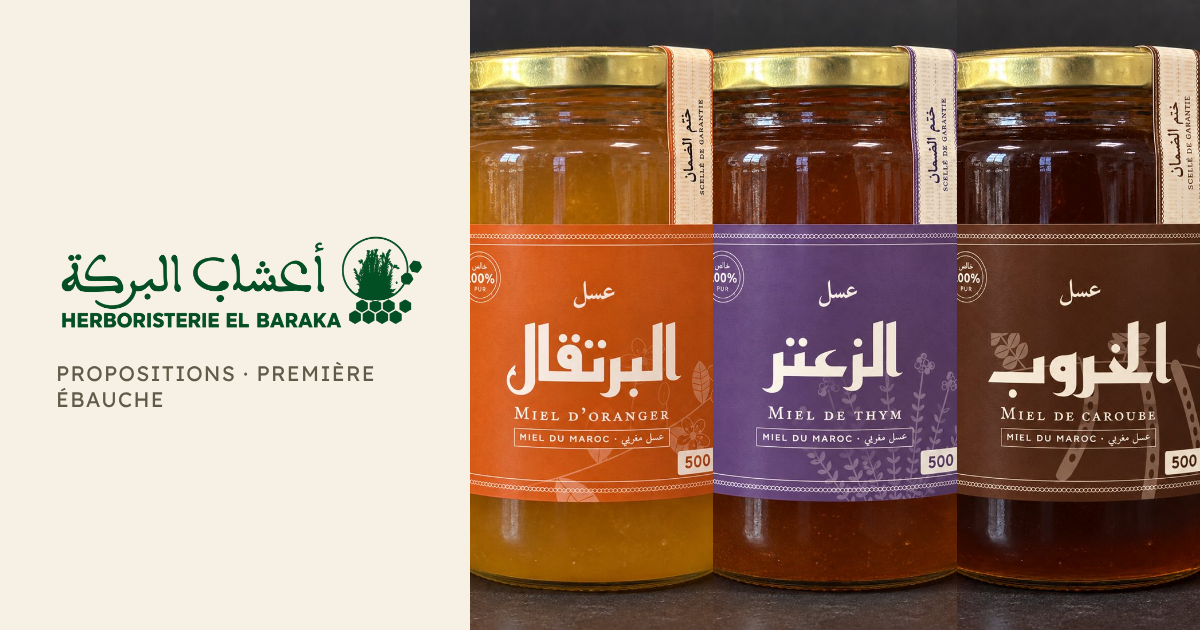
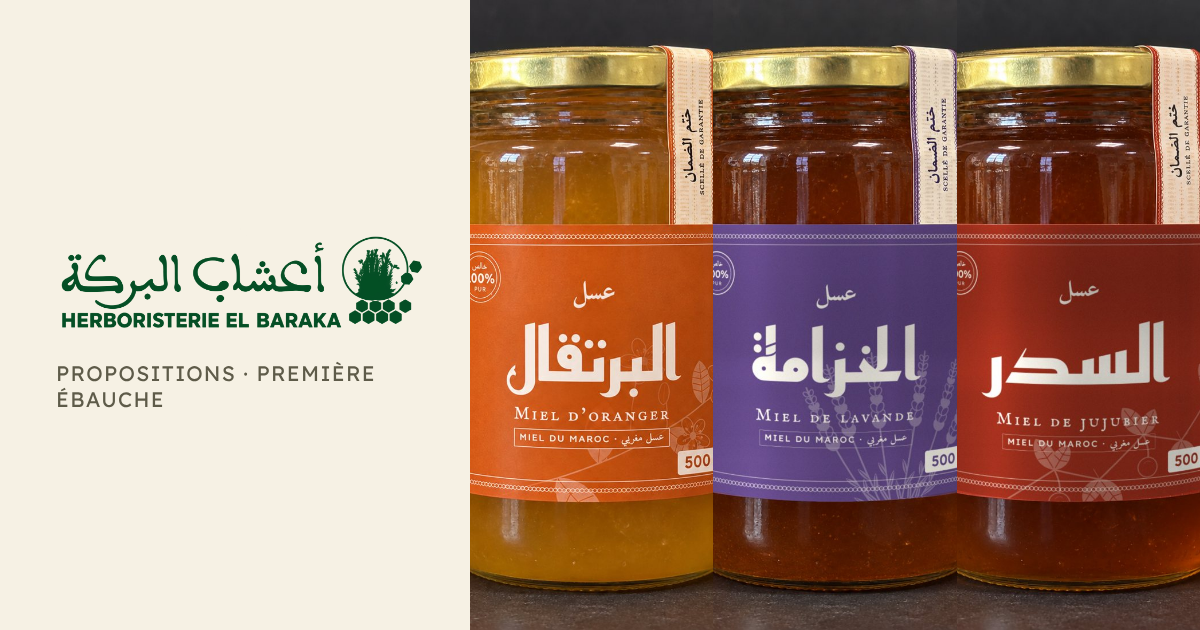
Update site (40c1f1b)

Changed region(s): [[0.5858, 0.0603, 1.0, 0.9952], [0.8017, 0.9651, 0.8633, 1.0], [0.6783, 0.4524, 0.7092, 0.4825]]

diff --git a/producer.js b/producer.js
@@ -28,15 +28,18 @@
   /* One code colour per honey. Hues are spread so neighbours never look alike,
      and the big word carries the meaning for anyone who can't tell colours apart. */
   const BLANK_NUT = { kj: '[ ]', kcal: '[ ]', fat: '[ ]', carb: '[ ]', prot: '[ ]', salt: '[ ]' };
+  // The seven honeys on the shop's shelf today, named as on its own labels.
   const HONEYS = [
     { id: 'ora', ar: 'عسل البرتقال', big: 'البرتقال', fr: 'Miel d’oranger', acc: '#bf5f17', flora: 'orange', fit: 0.92, pfund: 16,
       nut: { kj: '1377', kcal: '324', fat: '0,0', carb: '80,06', prot: '0,4', salt: '0,0' } },
-    { id: 'thy', ar: 'عسل الزعتر', big: 'الزعتر', fr: 'Miel de thym', acc: '#634987', flora: 'thyme', fit: 1, pfund: 64 },
-    { id: 'zak', ar: 'عسل الزقوم', big: 'الزقوم', fr: 'Miel d’euphorbe', acc: '#9c2f1d', flora: 'euphorbia', fit: 1, pfund: 72 },
-    { id: 'car', ar: 'عسل الخروب', big: 'الخروب', fr: 'Miel de caroube', acc: '#4a2c1c', flora: 'carob', fit: 1, pfund: 118 },
-    { id: 'euc', ar: 'عسل الكاليتوس', big: 'الكاليتوس', fr: 'Miel d’eucalyptus', acc: '#2c6965', flora: 'eucalyptus', fit: 0.78, pfund: 82 },
-    { id: 'mul', ar: 'عسل الأزهار', big: 'الأزهار', fr: 'Miel toutes fleurs', acc: '#557629', flora: 'meadow', fit: 1, pfund: 48 }
+    { id: 'rom', ar: 'عسل أزير', big: 'أزير', fr: 'Miel de romarin', acc: '#2c6965', flora: 'rosemary', fit: 1, pfund: 25 },
+    { id: 'lav', ar: 'عسل الخزامة', big: 'الخزامة', fr: 'Miel de lavande', acc: '#634987', flora: 'lavender', fit: 0.92, pfund: 60 },
+    { id: 'crb', ar: 'عسل الخروب', big: 'الخروب', fr: 'Miel de caroubier', acc: '#4a2c1c', flora: 'carob', fit: 1, pfund: 70 },
+    { id: 'juj', ar: 'عسل السدر', big: 'السدر', fr: 'Miel de jujubier', acc: '#9c2f1d', flora: 'jujube', fit: 1, pfund: 90 },
+    { id: 'asp', ar: 'عسل الزكوم', big: 'الزكوم', fr: 'Miel d’asperge', acc: '#33507e', flora: 'asparagus', fit: 1, pfund: 95 },
+    { id: 'ori', ar: 'عسل الزعتر', big: 'الزعتر', fr: 'Miel d’origan', acc: '#557629', flora: 'thyme', fit: 1, pfund: 105 }
   ];
+
 
   const BLANK = {
     brandAr: '[اسم التعاونية]', brandFr: '[NOM DE LA COOPÉRATIVE]', phone: '[téléphone]',
@@ -102,20 +105,6 @@
       }
       return o;
     },
-    euphorbia(R) {
-      // Euphorbia resinifera: square, spined columns with tiny yellow cyathia on top
-      let o = '';
-      [[24, 44, 9], [38, 60, 10], [54, 72, 11], [70, 64, 10], [86, 52, 9], [100, 38, 8], [112, 28, 7]].forEach(([x, h, w], i) => {
-        const y0 = 80, y1 = y0 - h, l = x - w / 2, r = x + w / 2;
-        o += `<path class="f-pt" d="M${l} ${y0}L${l} ${y1 + w / 2}Q${l} ${y1} ${x} ${y1}Q${r} ${y1} ${r} ${y1 + w / 2}L${r} ${y0}"/>`;
-        o += `<path class="f-pl" d="M${x} ${y1 + 2.5}L${x} ${y0}"/>`;
-        let sp = '';
-        for (let y = y1 + 4.5; y < y0 - 2; y += 4.4) sp += `M${l} ${P(y)}l-1.7 -1.3M${l} ${P(y)}l-1.7 1.3M${r} ${P(y)}l1.7 -1.3M${r} ${P(y)}l1.7 1.3`;
-        o += `<path class="f-sm" d="${sp}"/>`;
-        if (i % 2 === 0) for (let k = -1; k <= 1; k++) o += `<circle class="f-an" cx="${P(x + k * 2.7)}" cy="${P(y1 - 1.7 - (k ? 0 : 1.3))}" r="1.2"/>`;
-      });
-      return o;
-    },
     carob(R) {
       const br = [[0, 16], [60, 2], [122, 20]], on = (t) => quad(br[0], br[1], br[2], t);
       let o = curve(...br);
@@ -138,43 +127,68 @@
       });
       return o;
     },
-    eucalyptus(R) {
-      const br = [[4, 2], [66, 6], [116, 46]], on = (t) => quad(br[0], br[1], br[2], t);
-      let o = curve(...br);
-      [[0.12, 1, 32], [0.24, -1, 26], [0.36, 1, 34], [0.5, -1, 28], [0.62, 1, 30], [0.84, 1, 24]].forEach(([t, s, L]) => {
-        const p = on(t); o += leaf(p[0], p[1], 180 + s * (16 + R() * 18), L, 4.4, 0);
-      });
-      const fluff = (cx, cy, r) => {
-        let g = '';
-        for (let k = 0; k < 26; k++) {
-          const a = (k / 26) * Math.PI * 2 + R() * 0.1, rr = r * (0.8 + R() * 0.25);
-          g += `<path class="f-sm" d="M${P(cx + Math.cos(a) * 1.6)} ${P(cy + Math.sin(a) * 1.6)}L${P(cx + Math.cos(a) * rr)} ${P(cy + Math.sin(a) * rr)}"/>`;
-          if (k % 2) g += `<circle class="f-an" cx="${P(cx + Math.cos(a) * rr)}" cy="${P(cy + Math.sin(a) * rr)}" r=".45"/>`;
+    lavender(R) {
+      // spikes of small paired flowers on long bare stems
+      let o = '';
+      for (let i = 0; i < 6; i++) {
+        const f = i / 5 - 0.5, a = (f * 70 + (R() - 0.5) * 8) * Math.PI / 180, L = 64 + (1 - Math.abs(f) * 1.4) * 12 + R() * 4;
+        const p0 = [60 + f * 6, 80], p2 = [60 + Math.sin(a) * L, 80 - Math.cos(a) * L], p1 = [(p0[0] + p2[0]) / 2 + f * 8, (p0[1] + p2[1]) / 2 + 3];
+        o += curve(p0, p1, p2);
+        for (let j = 0; j < 3; j++) { const t = 0.12 + j * 0.09, q = quad(p0, p1, p2, t), d = tangentDeg(p0, p1, p2, t); o += leaf(q[0], q[1], d + (j % 2 ? 22 : -22), 11 - j * 2, 1.3); }
+        for (let j = 0; j < 9; j++) {
+          const t = 0.62 + j * 0.044, q = quad(p0, p1, p2, Math.min(t, 1)), d = tangentDeg(p0, p1, p2, Math.min(t, 1)), r = 2.5 - j * 0.15;
+          for (const side of [-1, 1]) o += `<ellipse class="${j % 3 ? 'f-pt' : 'f-an'}" transform="translate(${P(q[0])} ${P(q[1])}) rotate(${P(d + side * 30)}) translate(${P(side * 1.3)} 0)" rx="${P(r * 0.62)}" ry="${P(r)}"/>`;
         }
-        return g + `<circle class="f-ct" cx="${cx}" cy="${cy}" r="1.8"/>`;
-      };
-      const hub = on(0.72);
-      [[86, 20, 7], [100, 28, 6.5], [80, 34, 6]].forEach(([x, y, r]) => { o += curve(hub, [(hub[0] + x) / 2, (hub[1] + y) / 2 - 3], [x, y]) + fluff(x, y, r); });
-      [[94, 44], [106, 40]].forEach(([x, y]) => {
-        o += curve(hub, [(hub[0] + x) / 2, (hub[1] + y) / 2], [x, y - 2]);
-        o += `<path class="f-pt" d="M${x - 2.6} ${y - 2}Q${x - 2.6} ${y + 2.6} ${x} ${y + 3}Q${x + 2.6} ${y + 2.6} ${x + 2.6} ${y - 2}Z"/><path class="f-pl" d="M${x - 1.6} ${y - 2}h3.2"/>`;
+      }
+      return o;
+    },
+    rosemary(R) {
+      // woody stems crowded with needle leaves, a few small two-lipped flowers
+      let o = '';
+      [[18, 80, 70, 10, 104, 20], [40, 80, 62, 30, 72, 4], [58, 80, 92, 46, 116, 40]].forEach(([x0, y0, cx, cy, x2, y2]) => {
+        const p0 = [x0, y0], p1 = [cx, cy], p2 = [x2, y2];
+        o += curve(p0, p1, p2);
+        for (let j = 0; j < 22; j++) {
+          const t = 0.08 + j * 0.042, q = quad(p0, p1, p2, t), d = tangentDeg(p0, p1, p2, t), L = 7.5 - t * 3.5 + R();
+          o += leaf(q[0], q[1], d + 62 + R() * 10, L, 1.05) + leaf(q[0], q[1], d - 62 - R() * 10, L, 1.05);
+        }
+        for (let k = 0; k < 3; k++) {
+          const t = 0.3 + k * 0.22, q = quad(p0, p1, p2, t), side = k % 2 ? 1 : -1;
+          o += `<g transform="translate(${P(q[0] + side * 4)} ${P(q[1] - 3)}) rotate(${side * 25})"><path class="f-pt" d="M0 0C-2.4 -1 -3 -4 -1.2 -5.2C0 -4.2 .4 -2 0 0ZM0 0C2.6 -.6 3.4 -3.6 2 -4.8C.8 -4 .2 -2 0 0Z"/><circle class="f-an" cx="0" cy="0" r=".7"/></g>`;
+        }
       });
       return o;
     },
-    meadow(R) {
+    asparagus(R) {
+      // wild asparagus: thin arching stems with tufts of fine needles and a few berries
       let o = '';
-      [[-34, 44], [-14, 52], [8, 40], [26, 48], [42, 34]].forEach(([a, L]) => { o += leaf(60 + a * 0.2, 80, a, L, 2.6, 0); });
-      // daisy
-      o += curve([52, 80], [44, 50], [36, 26]);
-      let d = '<g transform="translate(36 26)">';
-      for (let k = 0; k < 16; k++) d += `<ellipse class="f-pt" transform="rotate(${k * 22.5}) translate(0 -5.6)" rx="1.2" ry="4.2"/>`;
-      o += d + '<circle class="f-an" r="2.8"/></g>';
-      // five-petal
-      o += curve([60, 80], [62, 46], [66, 14]) + flower5(R, 66, 14, 9, 8);
-      // bell
-      o += curve([68, 80], [84, 54], [92, 30]);
-      o += `<g transform="translate(94 32) rotate(-28)"><path class="f-pt" d="M-4.4 -5.6Q-5.6 3 -4 6Q-2 4.6 0 6.4Q2 4.6 4 6Q5.6 3 4.4 -5.6Q0 -8 -4.4 -5.6Z"/><path class="f-pl" d="M0 -6L0 4"/></g>`;
-      return o + bud(80, 44, 30, 2, 3.8) + bud(48, 46, -20, 2, 3.8);
+      [[30, 80, 26, 30, 64, 6], [56, 80, 74, 38, 112, 18], [44, 80, 46, 52, 84, 36]].forEach(([x0, y0, cx, cy, x2, y2]) => {
+        const p0 = [x0, y0], p1 = [cx, cy], p2 = [x2, y2];
+        o += curve(p0, p1, p2);
+        for (let j = 0; j < 13; j++) {
+          const t = 0.14 + j * 0.066, q = quad(p0, p1, p2, t), d = tangentDeg(p0, p1, p2, t) * Math.PI / 180;
+          let tuft = '';
+          for (let k = 0; k < 6; k++) {
+            const a = d + (k / 5 - 0.5) * 1.9 + (j % 2 ? 0.5 : -0.5), L = 4.2 + R() * 2.2;
+            tuft += `M${P(q[0])} ${P(q[1])}l${P(Math.sin(a) * L)} ${P(-Math.cos(a) * L)}`;
+          }
+          o += `<path class="f-sm" d="${tuft}"/>`;
+          if (j % 4 === 2) o += `<circle class="f-pt" cx="${P(q[0] + 3)}" cy="${P(q[1] + 2.5)}" r="1.5"/>`;
+        }
+      });
+      return o;
+    },
+    jujube(R) {
+      // a zigzag branch with paired thorns, oval three-veined leaves and round fruits
+      const pts = [[6, 70], [26, 56], [44, 60], [62, 42], [80, 46], [98, 26], [116, 30]];
+      let o = `<path class="f-st" d="M${pts.map(pt).join('L')}"/>`;
+      pts.slice(1, -1).forEach(([x, y], i) => {
+        o += `<path class="f-sm" d="M${x} ${y}l-2.5 -4.5M${x} ${y}l3.5 -3"/>`;
+        const up = i % 2 ? -1 : 1;
+        o += leaf(x, y, up > 0 ? -40 + R() * 10 : 140 + R() * 10, 15, 5.6, 2) + leaf(x, y, up > 0 ? 25 + R() * 8 : 205 + R() * 8, 12, 4.8, 2);
+        if (i % 2 === 0) o += `<path class="f-st" d="M${x} ${y}q3 6 2 11"/><circle class="f-pt" cx="${x + 2}" cy="${y + 14}" r="4.2"/><path class="f-pl" d="M${x + .3} ${y + 12.4}q1.4 -1.6 3 -.6"/>`;
+      });
+      return o;
     }
   };
   function flora(kind, seed) {

diff --git a/index.html b/index.html
@@ -126,7 +126,9 @@ a:focus-visible,button:focus-visible,[tabindex]:focus-visible{outline:2px solid 
 .today figure{margin:0;display:flex;flex-direction:column;gap:.5rem}
 .today img{width:100%;height:auto;display:block;border-radius:2px}
 .today p{color:#3f4f43;font-size:.95rem;margin:0}
-.photos{display:grid;grid-template-columns:repeat(3,minmax(0,1fr));gap:1rem}
+.photos{display:grid;grid-template-columns:repeat(12,minmax(0,1fr));gap:1rem}
+.photos figure{grid-column:span 3}
+.photos figure:nth-child(-n+3){grid-column:span 4}
 .photos figure{margin:0;display:flex;flex-direction:column;gap:.45rem;min-width:0}
 .photos img{display:block;width:100%;height:auto;border-radius:2px}
 .photos figcaption{display:flex;justify-content:space-between;gap:.6rem;font-size:.88rem;color:#3f4f43}
@@ -175,6 +177,8 @@ footer a{color:var(--muted)}
   .cards{grid-template-columns:1fr}
   .v3,.today,.hero,.v3-cta{grid-template-columns:1fr}
   .photos{grid-template-columns:repeat(2,minmax(0,1fr));gap:.7rem}
+  .photos figure,.photos figure:nth-child(-n+3){grid-column:span 1}
+  .photos figure:first-child{grid-column:1/-1}
   .v3-stage{aspect-ratio:1}
 }
 @media (prefers-reduced-motion:reduce){*{transition:none!important}}
@@ -187,7 +191,7 @@ footer a{color:var(--muted)}
     <div class="lockup"><img class="lg-img" src="img/logo-green.png" alt="Herboristerie El Baraka, أعشاب البركة"></div>
     <h1>Le même El Baraka, mieux mis en valeur</h1>
     <p class="lede">Quelques idées pour la boutique. On garde tout ce que les clients connaissent, à commencer par le logo, et on donne à chaque produit une étiquette qui se lit de loin.</p>
-    <p class="draft"><span><b>Première ébauche.</b> Elle part de ce qu’on voit de l’extérieur : la façade, le logo, les étiquettes actuelles. Les produits, les prix, les formats et les miels montrés sont des hypothèses, là pour donner une idée.</span></p>
+    <p class="draft"><span><b>Première ébauche.</b> Elle part de ce qu’on voit de l’extérieur : la façade, le logo, les étiquettes actuelles. Les miels sont ceux du rayon d’aujourd’hui, avec leurs noms actuels ; les produits maison, les prix et les formats sont des hypothèses, là pour donner une idée.</span></p>
     <ul class="toc" aria-label="Les propositions">
       <li><a href="#logo">La date sur le logo</a></li><li><a href="#miel">Le miel</a></li><li><a href="#maison">Les produits maison</a></li><li><a href="#sac">Le sac</a></li><li><a href="#facade">La façade</a></li>
     </ul>
@@ -224,7 +228,7 @@ footer a{color:var(--muted)}
   <section id="miel" aria-labelledby="h-miel">
     <div class="sh"><h2 id="h-miel">Le miel : une couleur par miel</h2><span class="ar" dir="rtl">العسل</span></div>
     <div class="prose">
-      <p class="lede">Sur l’étagère, chaque miel aurait sa couleur et le nom de sa fleur en grand, lisibles à trois mètres.</p>
+      <p class="lede">Sur l’étagère, chacun des sept miels aurait sa couleur et le nom de sa fleur en grand, lisibles à trois mètres.</p>
       <p>Le pot garde l’étiquette de la coopérative, avec son nom et son autorisation ONSSA. Si nous y mettions le nôtre, la boutique deviendrait un atelier d’étiquetage, avec l’autorisation et les contrôles qui vont avec. L’idée est donc de leur proposer ce dessin pour leurs pots.</p>
     </div>
     <div class="plate">
@@ -235,9 +239,9 @@ footer a{color:var(--muted)}
         </div>
       </div>
       <div class="pad">
-        <span class="cap">La proposition · un pot par miel</span>
+        <span class="cap">La proposition · les sept miels du rayon, du plus clair au plus foncé</span>
         <div class="photos" id="photos"></div>
-        <span class="cap note">Images d’illustration faites à partir des étiquettes proposées, pas encore des photos de vrais pots. Six miels pris comme exemples.</span>
+        <span class="cap note">Images d’illustration faites à partir des étiquettes proposées, pas encore des photos de vrais pots. La teinte du miel est indicative.</span>
       </div>
       <div class="pad">
         <ul class="dist">
@@ -245,14 +249,14 @@ footer a{color:var(--muted)}
           <li><b>À 1 mètre</b>«عسل», le nom en français, «Miel du Maroc», et le poids sur sa petite étiquette crème, en bas à droite.</li>
           <li><b>Dans la main</b>Valeurs, conditionneur, autorisation, lot, dates, et le dessin gravé de la fleur.</li>
         </ul>
-        <div class="srow"><span class="cap">Les six pots, à la taille où on les voit à 3 mètres</span><div class="far" id="far"></div></div>
+        <div class="srow"><span class="cap">Les sept pots, à la taille où on les voit à 3 mètres</span><div class="far" id="far"></div></div>
       </div>
       <div class="pad">
         <div class="pick" id="hPick" role="group" aria-label="Choisir un miel"></div>
         <div class="flat"><div class="lb" id="hLabel" tabindex="0" aria-label="Étiquette à plat du miel choisi"></div><div class="sealbox" id="hSeal"></div></div>
-        <span class="cap note">Étiquette à plat, 200 × 60 mm (dos · face · côté), et scellé de 40 × 85 mm. Six miels pris comme exemples ; les champs en pointillés sont ceux de la coopérative.</span>
+        <span class="cap note">Étiquette à plat, 200 × 60 mm (dos · face · côté), et scellé de 40 × 85 mm. Les champs en pointillés sont ceux de la coopérative.</span>
         <ul class="why">
-          <li><b>Une couleur par miel</b>Oranger, thym, zakkoum, caroube, eucalyptus, toutes fleurs. Comme un rayon d’épices bien rangé.</li>
+          <li><b>Une couleur par miel</b>Oranger, romarin, lavande, caroubier, jujubier, asperge, origan. Comme un rayon d’épices bien rangé.</li>
           <li><b>Le nom de la fleur en très grand</b>En lettres kufi épaisses, parce que les traits fins disparaissent à distance. Le mot répète la couleur.</li>
           <li><b>La fleur gravée en filigrane</b>On ne la voit que de près, et c’est ce qui donne envie de prendre le pot en main.</li>
           <li><b>Les coins, discrets</b>«100 % pur · خالص» en petit cachet en haut à gauche, le poids en bas à droite, à la même distance du bord.</li>
@@ -303,7 +307,7 @@ footer a{color:var(--muted)}
             <div><span class="cap">Les miels</span><div class="pick" id="v3honey" role="group" aria-label="Choisir un miel"></div></div>
             <div><span class="cap">Les produits maison</span><div class="pick" id="v3house" role="group" aria-label="Choisir un produit maison"></div></div>
             <div><span class="cap">Vue</span><div class="seg" id="v3views" role="group" aria-label="Vue">
-              <button type="button" data-v="three" aria-pressed="true">Trois quarts</button><button type="button" data-v="front" aria-pressed="false">Face</button><button type="button" data-v="back" aria-pressed="false">Dos</button><button type="button" data-v="top" aria-pressed="false">Couvercle</button><button type="button" data-v="shelf" aria-pressed="false">Les six miels</button>
+              <button type="button" data-v="three" aria-pressed="true">Trois quarts</button><button type="button" data-v="front" aria-pressed="false">Face</button><button type="button" data-v="back" aria-pressed="false">Dos</button><button type="button" data-v="top" aria-pressed="false">Couvercle</button><button type="button" data-v="shelf" aria-pressed="false">Toute la gamme</button>
             </div></div>
             <div id="v3lidrow"><span class="cap">Couvercle</span><div class="seg" id="v3lid" role="group" aria-label="Couleur du couvercle"><button type="button" data-l="gold" aria-pressed="true">Doré</button><button type="button" data-l="black" aria-pressed="false">Noir</button></div></div>
           </div>
@@ -391,7 +395,7 @@ footer a{color:var(--muted)}
 
   /* the jar in 3D: loaded only when the section comes near the screen */
   // honey looks far darker in a full jar than in the thin layer the colour scale measures
-  const HONEY3D = { ora: '#a35a0e', mul: '#9a5a0e', thy: '#6a2e08', zak: '#7a3208', euc: '#8f520e', car: '#3a1806' };
+  const HONEY3D = { ora: '#a35a0e', rom: '#b0700f', lav: '#7a3e0c', crb: '#8f4f0e', juj: '#6a2e08', asp: '#4a2008', ori: '#3a1806' };
   const shade = (hex, f) => '#' + [1, 3, 5].map(i => Math.round(parseInt(hex.substr(i, 2), 16) * f).toString(16).padStart(2, '0')).join('');
   const v3items = PH.map(h => ({ id: h.id, kind: 'honey', name: h.fr, chip: `<i style="background:${h.acc}"></i><span dir="rtl">${h.big}</span>`,
       color: HONEY3D[h.id] || shade(E.pfundColor(h.pfund), .6), label: `img/tex/${h.id}-label.jpg`, disc: `img/tex/${h.id}-disc.png`, tail: `img/tex/${h.id}-tail.png` }))

diff --git a/baraka.js b/baraka.js
@@ -183,19 +183,23 @@
     { id: 'n21', kind: 'house', line: 'beauty', ar: 'غاسول بالأعشاب', arSub: 'للشعر والبشرة', pre: 'بالأعشاب', big: 'الغاسول', fit: 0.92, fill: '#9c8a72', fr: 'Ghassoul aux plantes', frSub: 'Cheveux et peau', size: '200 g', price: 40 },
     { id: 'n30', kind: 'house', line: 'oils', ar: 'زيت حبة البركة', arSub: 'معصور على البارد', pre: 'زيت', big: 'حبة البركة', fit: 0.8, fill: '#3a3618', fr: 'Huile de nigelle', frSub: 'Pressée à froid', size: '100 ml', price: 60 },
 
-    // Honeys: bought from the contractor, sold in the contractor's labelled jar. El Baraka never labels the jar.
-    { id: 'zak', kind: 'honey', ar: 'عسل الزقوم', fr: 'Miel d’euphorbe', frSub: 'Zakkoum', pfund: 72, region: { ar: 'تادلة · سوس', fr: 'Tadla · Souss' }, sweet: 2, strong: 5, size: '500 g', price: 220,
-      noteAr: 'قوي، بلسعة خفيفة في الحلق', noteFr: 'Puissant, légère chaleur en gorge', pairAr: 'ملعقة صباحا، أو مع الزميتة', pairFr: 'Une cuillère le matin, ou avec la zemmita' },
-    { id: 'thy', kind: 'honey', ar: 'عسل الزعتر', fr: 'Miel de thym', frSub: 'Atlas', pfund: 64, region: { ar: 'الأطلس', fr: 'Atlas' }, sweet: 3, strong: 4, size: '500 g', price: 180,
-      noteAr: 'عشبي ودافئ، يدوم في الفم', noteFr: 'Herbacé, chaud, très persistant', pairAr: 'مع أتاي أو الحليب الساخن', pairFr: 'Dans l’atay ou le lait chaud' },
-    { id: 'ora', kind: 'honey', ar: 'عسل زهر الليمون', fr: 'Miel de fleur d’oranger', frSub: 'Gharb', pfund: 16, region: { ar: 'الغرب · سوس', fr: 'Gharb · Souss' }, sweet: 5, strong: 2, size: '500 g', price: 120,
+    // Honeys: the seven on the shop's shelf today, named as on its own labels. Bought from the
+    // cooperative and sold in its labelled jar: El Baraka never labels the jar.
+    // Taste notes are general descriptions of each honey; prices are examples.
+    { id: 'ora', kind: 'honey', ar: 'عسل البرتقال', fr: 'Miel d’oranger', frSub: '', pfund: 16, region: { ar: 'حسب الدفعة', fr: 'Selon le lot' }, sweet: 5, strong: 2, size: '500 g', price: 120,
       noteAr: 'زهري وناعم، يتبلور بنعومة', noteFr: 'Floral et doux, cristallise fin', pairAr: 'للأطفال، مع البغرير والملوي', pairFr: 'Pour les enfants, avec baghrir et msemen' },
-    { id: 'car', kind: 'honey', ar: 'عسل الخروب', fr: 'Miel de caroube', frSub: 'Moyen Atlas', pfund: 118, region: { ar: 'حسب الدفعة', fr: 'Selon le lot' }, sweet: 3, strong: 4, size: '500 g', price: 170,
-      noteAr: 'داكن، بنكهة الكراميل والكاكاو', noteFr: 'Sombre, notes de malt et de cacao', pairAr: 'مع الجبن الطري أو الخبز المحمص', pairFr: 'Avec un fromage frais ou du pain grillé' },
-    { id: 'euc', kind: 'honey', ar: 'عسل الكاليتوس', fr: 'Miel d’eucalyptus', frSub: '', pfund: 82, region: { ar: 'حسب الدفعة', fr: 'Selon le lot' }, sweet: 3, strong: 4, size: '500 g', price: 130,
-      noteAr: 'خشبي بلمسة منعشة', noteFr: 'Boisé, une pointe mentholée', pairAr: 'في المشروبات الساخنة شتاء', pairFr: 'Dans les boissons chaudes l’hiver' },
-    { id: 'mul', kind: 'honey', ar: 'عسل الأزهار', fr: 'Miel toutes fleurs', frSub: 'Printemps', pfund: 48, region: { ar: 'حسب الدفعة', fr: 'Selon le lot' }, sweet: 4, strong: 3, size: '500 g', price: 100,
-      noteAr: 'متوازن، للاستعمال اليومي', noteFr: 'Équilibré, pour tous les jours', pairAr: 'للفطور والحلويات', pairFr: 'Petit-déjeuner et pâtisseries' },
+    { id: 'rom', kind: 'honey', ar: 'عسل أزير', fr: 'Miel de romarin', frSub: '', pfund: 20, region: { ar: 'حسب الدفعة', fr: 'Selon le lot' }, sweet: 5, strong: 1, size: '500 g', price: 110,
+      noteAr: 'حلو جدا، يتبلور بسرعة وبنعومة', noteFr: 'Très doux, cristallise vite et fin', pairAr: 'مع الخبز المحمص في الفطور', pairFr: 'Sur du pain grillé au petit-déjeuner' },
+    { id: 'lav', kind: 'honey', ar: 'عسل الخزامة', fr: 'Miel de lavande', frSub: '', pfund: 45, region: { ar: 'حسب الدفعة', fr: 'Selon le lot' }, sweet: 4, strong: 2, size: '500 g', price: 150,
+      noteAr: 'زهري ورقيق بنفحة الخزامة', noteFr: 'Floral et délicat, une note de lavande', pairAr: 'في الأعشاب المنقوعة أو مع الياغورت', pairFr: 'Dans une infusion ou un yaourt' },
+    { id: 'crb', kind: 'honey', ar: 'عسل الخروب', fr: 'Miel de caroubier', frSub: '', pfund: 70, region: { ar: 'حسب الدفعة', fr: 'Selon le lot' }, sweet: 3, strong: 3, size: '500 g', price: 140,
+      noteAr: 'بنكهة الكراميل والكاكاو، قليل الحلاوة', noteFr: 'Notes de caramel et de cacao, peu sucré', pairAr: 'مع الجبن الطري أو الخبز المحمص', pairFr: 'Avec un fromage frais ou du pain grillé' },
+    { id: 'juj', kind: 'honey', ar: 'عسل السدر', fr: 'Miel de jujubier', frSub: '', pfund: 85, region: { ar: 'حسب الدفعة', fr: 'Selon le lot' }, sweet: 3, strong: 4, size: '500 g', price: 250,
+      noteAr: 'غني، بنكهة الكراميل والفواكه الجافة', noteFr: 'Riche, notes de caramel et de fruits secs', pairAr: 'خالص بالملعقة، أو مع اللوز', pairFr: 'Pur, à la cuillère, ou avec des amandes' },
+    { id: 'asp', kind: 'honey', ar: 'عسل الزكوم', fr: 'Miel d’asperge', frSub: '', pfund: 100, region: { ar: 'حسب الدفعة', fr: 'Selon le lot' }, sweet: 2, strong: 4, size: '500 g', price: 180,
+      noteAr: 'داكن، بمرارة خفيفة في آخره', noteFr: 'Sombre, une légère amertume en fin de bouche', pairAr: 'ملعقة صباحا', pairFr: 'Une cuillère le matin' },
+    { id: 'ori', kind: 'honey', ar: 'عسل الزعتر', fr: 'Miel d’origan', frSub: '', pfund: 105, region: { ar: 'حسب الدفعة', fr: 'Selon le lot' }, sweet: 2, strong: 5, size: '500 g', price: 160,
+      noteAr: 'قوي وعشبي، بلمسة حارة', noteFr: 'Puissant et herbacé, un peu poivré', pairAr: 'ملعقة صباحا، أو في أتاي', pairFr: 'Une cuillère le matin, ou dans l’atay' },
 
     // Other hive products, also bought in
     { id: 'pol', kind: 'hive', ar: 'حبوب اللقاح', fr: 'Pollen frais', size: '250 g', price: 90, tint: '#d9a230' },

diff --git a/store.html b/store.html
@@ -73,6 +73,8 @@ section.shelf{padding-block:3rem;border-top:1px solid var(--rule);scroll-margin-
 :lang(fr) .sh h2{font-family:var(--f-fr)} :lang(ar) .sh h2{font-family:var(--f-ar);font-weight:700}
 .sh p{margin:0;color:var(--muted);font-size:.92rem;max-width:30em}
 .grid{display:grid;grid-template-columns:repeat(3,minmax(0,1fr));gap:1.4rem}
+#g-honey{grid-template-columns:repeat(4,minmax(0,1fr));gap:1.1rem}
+#g-honey .card:nth-child(-n+3){grid-column:span 1}
 .card{display:flex;flex-direction:column;gap:.75rem;min-width:0}
 .tile{all:unset;box-sizing:border-box;cursor:pointer;position:relative;display:flex;justify-content:center;align-items:flex-end;aspect-ratio:4/4.3;width:100%;padding-top:8%;--jar-mm:2.15px;
   background:color-mix(in srgb,var(--tint,#d8d1c0) 16%,var(--tile));border-radius:3px;overflow:hidden;transition:transform .35s ease}
@@ -155,6 +157,8 @@ details.pv summary{cursor:pointer;font-size:.85rem;color:var(--muted)}
   .hero{grid-template-columns:1fr;gap:2rem;padding-block:2.2rem 2rem}
   .still{--jar-mm:1.15px;overflow:hidden}
   .grid{grid-template-columns:repeat(2,minmax(0,1fr));gap:1rem}
+  #g-honey{grid-template-columns:repeat(2,minmax(0,1fr))}
+  #g-honey .card:first-child,#g-house .card:first-child{grid-column:1/-1}
   .tile{--jar-mm:1.15px}
   .promise{grid-template-columns:1fr}
   .brand img{height:34px}
@@ -304,7 +308,7 @@ details.pv summary{cursor:pointer;font-size:.85rem;color:var(--muted)}
   const nameOf = (p) => lang === 'ar' ? p.ar : (p.kind === 'house' ? `${p.fr}` : p.fr);
   const subOf = (p) => p.kind === 'house' ? (lang === 'ar' ? p.arSub : p.frSub) : p.kind === 'honey' ? (lang === 'ar' ? 'عسل مغربي' : (p.frSub ? p.frSub + ' · ' : '') + 'Miel du Maroc') : (lang === 'ar' ? p.fr : p.ar);
 
-  $('still').innerHTML = `<img src="img/photos/thy.jpg" alt="Pot de miel de thym avec l’étiquette proposée">`;
+  $('still').innerHTML = `<img src="img/photos/lav.jpg" alt="Pot de miel de lavande avec l’étiquette proposée">`;
 
   function control(p){
     const q = cart[p.id] || 0;

diff --git a/labels.html b/labels.html
@@ -49,7 +49,7 @@ body{margin:0;background:var(--bg);color:var(--ink);font-family:'Readex Pro',sys
   const PR = window.Producer, PH = PR.HONEYS;
   const pst = document.createElement('style'); pst.textContent = PR.CSS; document.head.appendChild(pst);
   for (let i = 0; i < PH.length; i += 2) {
-    h += `<section class="page land"><h1><span>Miel · étiquette de la coopérative 200 × 60 mm + scellé 40 × 85 mm · taille réelle · champs [ ] à remplir par la coopérative · scellé : papier destructible</span><span>${i / 2 + 1} / 3</span></h1>
+    h += `<section class="page land"><h1><span>Miel · étiquette de la coopérative 200 × 60 mm + scellé 40 × 85 mm · taille réelle · champs [ ] à remplir par la coopérative · scellé : papier destructible</span><span>${i / 2 + 1} / ${Math.ceil(PH.length / 2)}</span></h1>
       ${PH.slice(i, i + 2).map(x => `<div class="row" style="align-items:center"><div class="cut" style="width:200mm">${PR.label(x)}</div><div class="cut" style="width:40mm">${PR.seal(x)}</div></div>`).join('')}
 </section>`;
   }

diff --git a/jar3d.js b/jar3d.js
@@ -170,7 +170,7 @@ export async function mount(stage, items) {
 
   function frame() {
     const narrow = stage.clientWidth < 560;
-    if (state.view === 'shelf') { camera.position.set(0, 145, narrow ? 1150 : 720); camera.lookAt(0, 54, 0); }
+    if (state.view === 'shelf') { const n = jars.length || 6; camera.position.set(0, 145, (narrow ? 192 : 122) * n); camera.lookAt(0, 54, 0); }
     else if (state.view === 'top') { camera.position.set(0, 310, 80); camera.lookAt(0, 58, 0); }
     else { camera.position.set(0, 120, narrow ? 285 : 265); camera.lookAt(0, 54, 0); }
     jars.forEach((j) => { j.rotation.y = THREE.MathUtils.degToRad(state.angle); });
